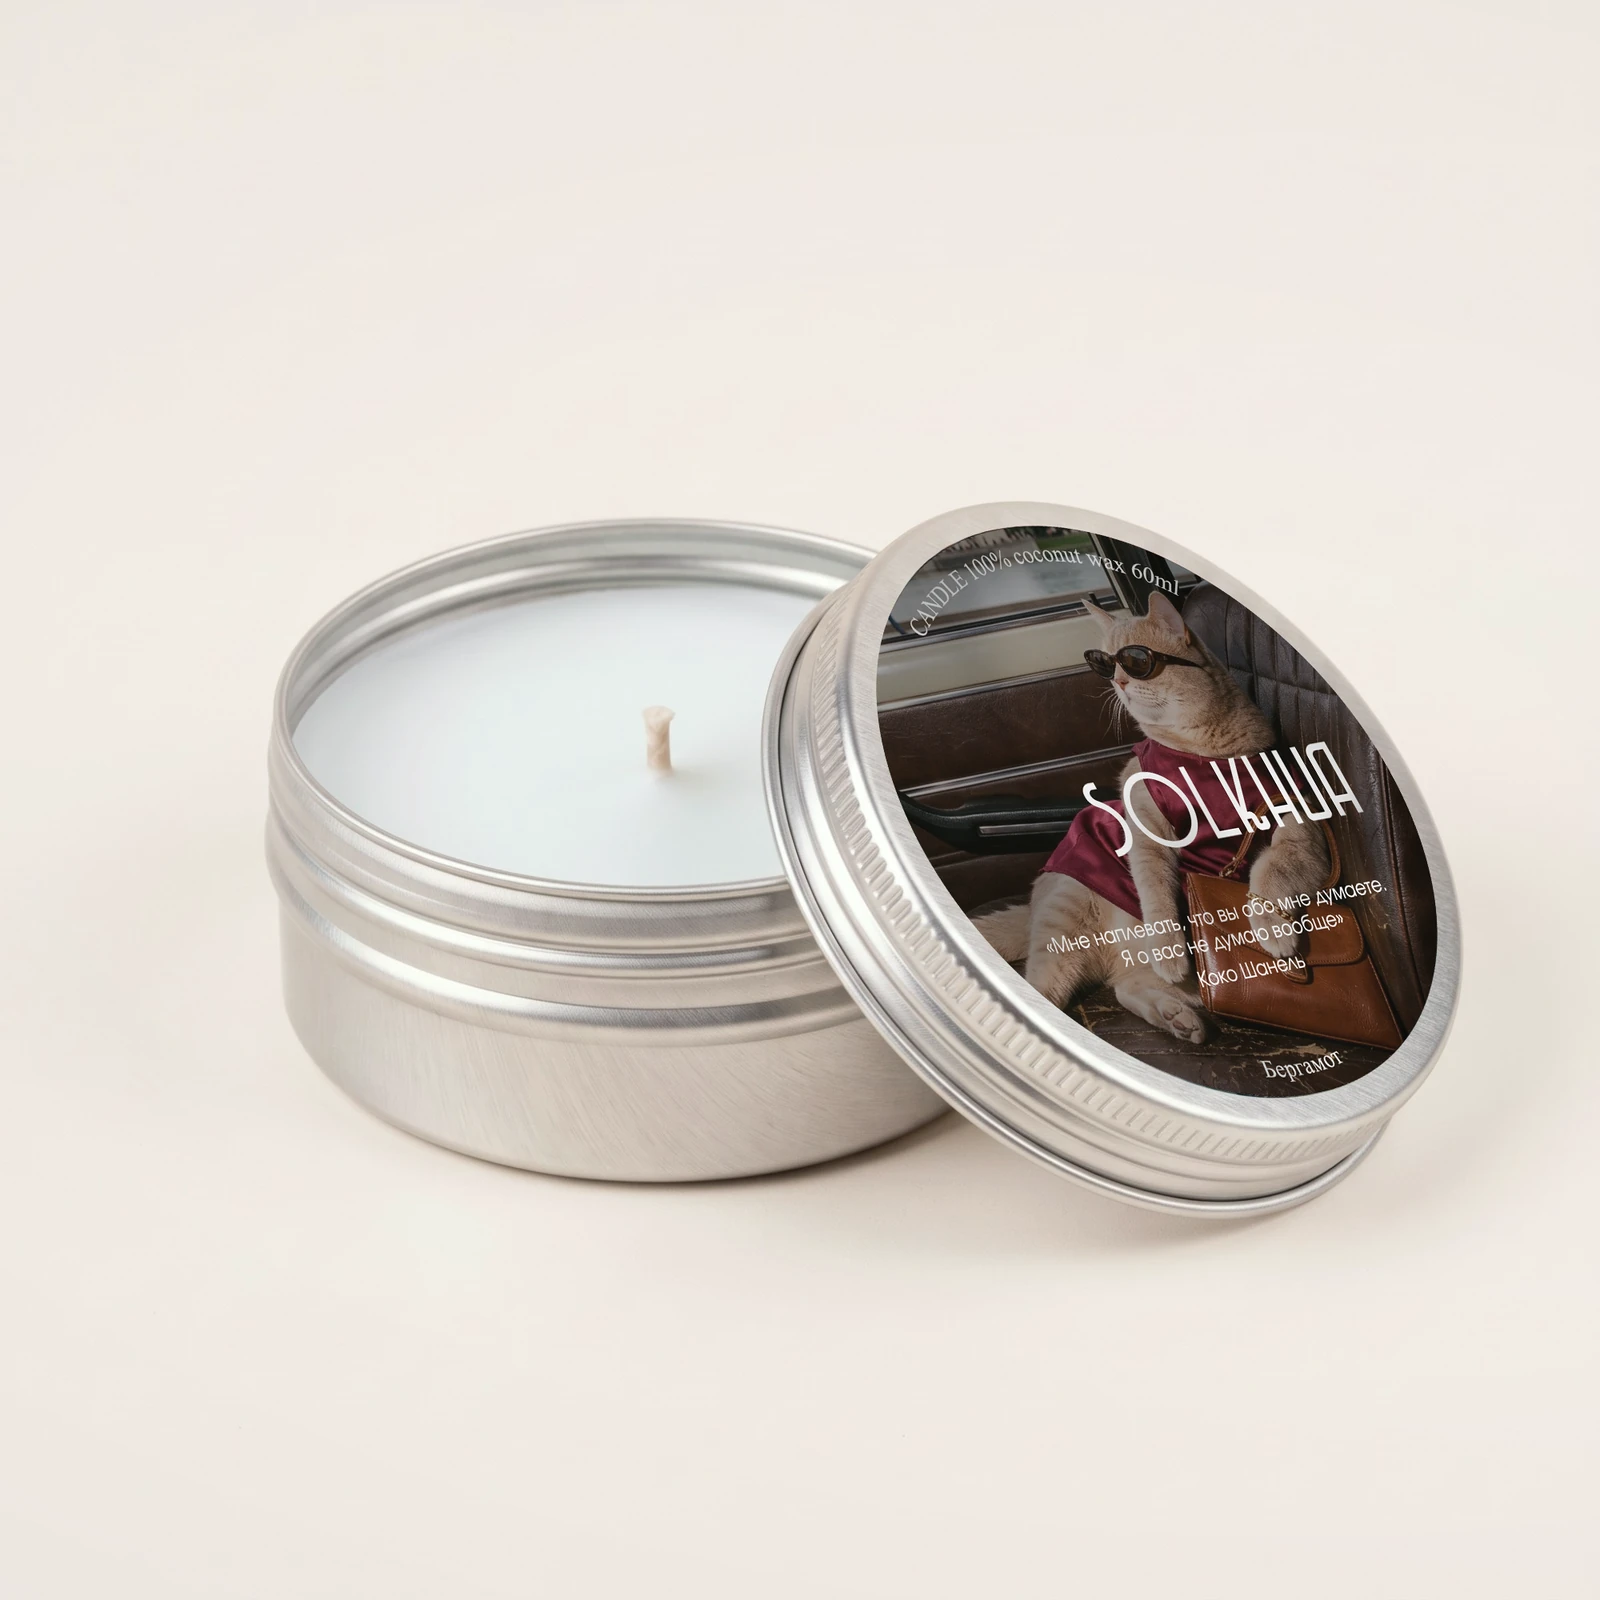
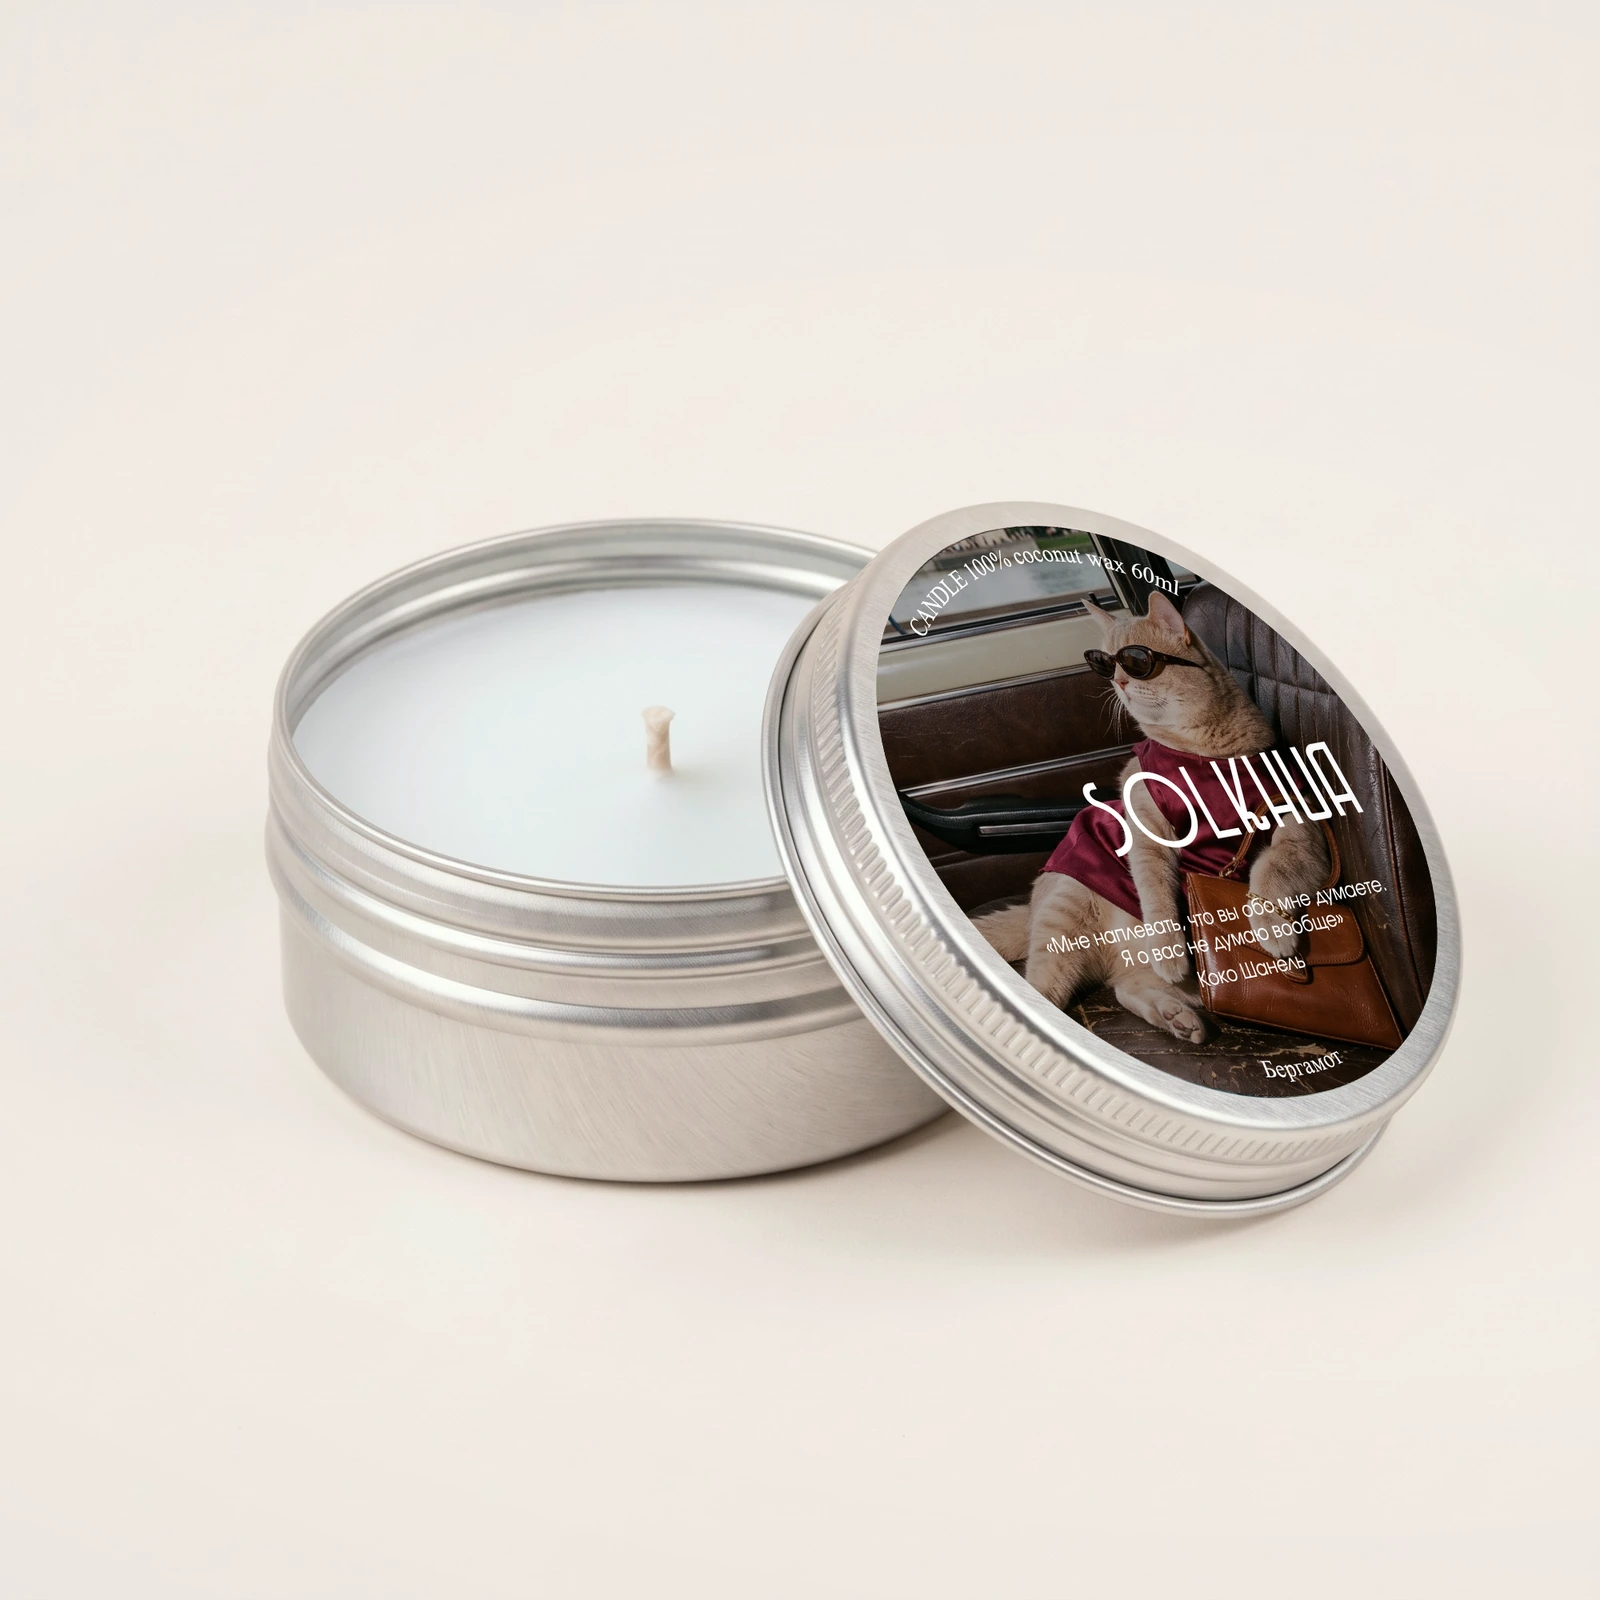
Use original label colours, smoother catalogue hover, drop photo credit line
- Relabel every product shot with the label PNG colours as supplied: no tone
  mapping or shading filter; only a gentle rim-derived light gradient and,
  under the vacuum film, broad specular highlights
- Catalogue hover now crossfades the unpacked tin over the packed one
- Remove the Unsplash credit line from the footer
- Version asset URLs so browsers fetch the replaced photos

Claude-Session: https://claude.ai/code/session_01UpckG1rPkLS9rV3dZvxG6U

diff --git a/index.html b/index.html
@@ -13,7 +13,7 @@
 <link rel="preconnect" href="https://fonts.googleapis.com">
 <link rel="preconnect" href="https://fonts.gstatic.com" crossorigin>
 <link rel="stylesheet" href="https://fonts.googleapis.com/css2?family=Poiret+One&family=Didact+Gothic&family=Tinos:ital@0;1&display=swap">
-<link rel="stylesheet" href="assets/css/style.css">
+<link rel="stylesheet" href="assets/css/style.css?v=20261004b">
 <script>document.documentElement.classList.add("js")</script>
 </head>
 <body data-page="home">
@@ -32,7 +32,7 @@
       </div>
       <div class="hero-stage">
         <div class="hero-float"><div class="hero-tilt" id="hero-tilt">
-          <img class="hero-candle" id="hero-candle" src="assets/img/product-palo-santo.webp" alt="Свеча SOLKHUA «Пало санто» в прозрачной вакуумной упаковке" width="1400" height="1400" fetchpriority="high">
+          <img class="hero-candle" id="hero-candle" src="assets/img/product-palo-santo.webp?v=20261004b" alt="Свеча SOLKHUA «Пало санто» в прозрачной вакуумной упаковке" width="1400" height="1400" fetchpriority="high">
         </div></div>
       </div>
       <div class="hero-panel hero-swap" id="hero-panel" aria-live="polite"></div>
@@ -59,9 +59,9 @@
     <div class="story-track" id="story-track">
       <div class="story-stick">
         <div class="stage" id="stage">
-          <div class="frame on"><img src="assets/img/product-palo-santo.webp" alt="Свеча в вакуумной упаковке" loading="lazy"></div>
-          <div class="frame"><img src="assets/img/open-palo-santo.webp" alt="Открытая свеча «Пало санто» и крышка с этикеткой" loading="lazy"></div>
-          <div class="frame frame-zoom"><img src="assets/img/lit.webp" alt="Горящая свеча из кокосового воска" loading="lazy"></div>
+          <div class="frame on"><img src="assets/img/product-palo-santo.webp?v=20261004b" alt="Свеча в вакуумной упаковке" loading="lazy"></div>
+          <div class="frame"><img src="assets/img/open-palo-santo.webp?v=20261004b" alt="Открытая свеча «Пало санто» и крышка с этикеткой" loading="lazy"></div>
+          <div class="frame frame-zoom"><img src="assets/img/lit.webp?v=20261004b" alt="Горящая свеча из кокосового воска" loading="lazy"></div>
           <div class="frame"><img src="assets/img/cats/care.webp" alt="Человек гладит уличного кота" loading="lazy"></div>
         </div>
         <div class="steps">
@@ -147,7 +147,7 @@
     <div class="q-dots" id="q-dots" role="group" aria-label="Выбор цитаты"></div>
   </section>
 </main>
-<script src="assets/js/data.js"></script>
-<script src="assets/js/app.js"></script>
+<script src="assets/js/data.js?v=20261004b"></script>
+<script src="assets/js/app.js?v=20261004b"></script>
 </body>
 </html>

diff --git a/about.html b/about.html
@@ -13,7 +13,7 @@
 <link rel="preconnect" href="https://fonts.googleapis.com">
 <link rel="preconnect" href="https://fonts.gstatic.com" crossorigin>
 <link rel="stylesheet" href="https://fonts.googleapis.com/css2?family=Poiret+One&family=Didact+Gothic&family=Tinos:ital@0;1&display=swap">
-<link rel="stylesheet" href="assets/css/style.css">
+<link rel="stylesheet" href="assets/css/style.css?v=20261004b">
 <script>document.documentElement.classList.add("js")</script>
 </head>
 <body data-page="about">
@@ -28,7 +28,7 @@
 
   <section class="wrap">
     <div class="split-block">
-      <div class="media-r reveal-img"><img src="assets/img/closed-apelsin-koritsa.webp" alt="Свеча «Апельсин и корица»" loading="lazy"></div>
+      <div class="media-r reveal-img"><img src="assets/img/closed-apelsin-koritsa.webp?v=20261004b" alt="Свеча «Апельсин и корица»" loading="lazy"></div>
       <div class="reveal d1">
         <span class="eyebrow">Идея</span>
         <h2 style="margin-top:12px">Город, где коты главные</h2>
@@ -40,7 +40,7 @@
 
   <section class="wrap">
     <div class="split-block rev">
-      <div class="media-r reveal-img"><img src="assets/img/lit.webp" alt="Горящая свеча из кокосового воска" loading="lazy"></div>
+      <div class="media-r reveal-img"><img src="assets/img/lit.webp?v=20261004b" alt="Горящая свеча из кокосового воска" loading="lazy"></div>
       <div class="reveal d1">
         <span class="eyebrow">Состав</span>
         <h2 style="margin-top:12px">Только кокосовый воск</h2>
@@ -72,7 +72,7 @@
     <cite class="reveal">Коко Шанель · на крышке «Бергамот»</cite>
   </section>
 </main>
-<script src="assets/js/data.js"></script>
-<script src="assets/js/app.js"></script>
+<script src="assets/js/data.js?v=20261004b"></script>
+<script src="assets/js/app.js?v=20261004b"></script>
 </body>
 </html>

diff --git a/assets/js/app.js b/assets/js/app.js
@@ -9,7 +9,8 @@
   const $ = (s, r = document) => r.querySelector(s);
   const $$ = (s, r = document) => [...r.querySelectorAll(s)];
   const money = n => n.toLocaleString("ru-RU") + " " + CFG.currency;
-  const img = (id, kind = "product") => `assets/img/${kind}-${id}.webp`;
+  const V = "20261004b"; // bump after replacing photos so browsers fetch the new files
+  const img = (id, kind = "product") => `assets/img/${kind}-${id}.webp?v=${V}`;
   const esc = s => String(s).replace(/[&<>"]/g, c => ({ "&": "&amp;", "<": "&lt;", ">": "&gt;", '"': "&quot;" }[c]));
 
   /* ---------- storage (safe) ---------- */
@@ -74,7 +75,7 @@
             </ul></div>
           </div>
           <div class="wordmark" aria-hidden="true">SOLKHUA</div>
-          <div class="legal"><span>© ${new Date().getFullYear()} SOLKHUA · ${CFG.city}</span><span class="credit">Фото города и котов: <a href="https://unsplash.com" target="_blank" rel="noopener">Unsplash</a></span><a href="info.html">Доставка и оплата</a></div>
+          <div class="legal"><span>© ${new Date().getFullYear()} SOLKHUA · ${CFG.city}</span><a href="info.html">Доставка и оплата</a></div>
         </div>
       </footer>
       <div class="overlay" id="overlay"></div>
@@ -283,7 +284,7 @@
       const id = new URLSearchParams(location.search).get("id");
       const p = byId[id] || PRODUCTS[0];
       document.title = `${p.name} — SOLKHUA`;
-      const shots = [img(p.id), img(p.id, "closed"), img(p.id, "open"), "assets/img/side.webp", "assets/img/lit.webp", img(p.id, "label")];
+      const shots = [img(p.id), img(p.id, "closed"), img(p.id, "open"), `assets/img/side.webp?v=${V}`, `assets/img/lit.webp?v=${V}`, img(p.id, "label")];
       let qty = 1;
       $("#pdp").innerHTML = `
         <div class="gallery">

diff --git a/assets/css/style.css b/assets/css/style.css
@@ -185,10 +185,11 @@ section{padding-block:clamp(64px,9vw,140px)}
 .card-visual{position:relative}
 .card-media{position:relative;display:block;aspect-ratio:1;border-radius:var(--r);overflow:hidden;background:var(--photo)}
 .card-media img{position:absolute;inset:0;width:100%;height:100%;object-fit:cover;transition:transform 1.2s var(--ease)}
-.card-media .alt{opacity:0;transform:scale(1.04)}
-.card:hover .card-media .main{opacity:0;transform:scale(1.04)}
-.card:hover .card-media .alt{opacity:1;transform:scale(1)}
-.card-media img{transition:transform 1.1s var(--ease),opacity .7s var(--ease)}
+/* hover: the unpacked tin fades in softly over the packed one (no flash through the background) */
+.card-media img{transition:opacity .65s cubic-bezier(.4,0,.2,1),transform 1.4s cubic-bezier(.22,.7,.18,1);will-change:opacity,transform;backface-visibility:hidden}
+.card-media .alt{opacity:0;transform:scale(1.015)}
+.card:hover .card-media .main{transform:scale(1.03)}
+.card:hover .card-media .alt{opacity:1;transform:scale(1.03)}
 .card-badge{position:absolute;z-index:2;top:14px;left:14px;padding:.45em .95em;border-radius:999px;background:rgba(255,255,255,.85);font-size:.7rem;letter-spacing:.12em;text-transform:uppercase}
 .card-quick{position:absolute;z-index:2;left:14px;right:14px;bottom:14px;display:flex;justify-content:center;padding:.95em;border:0;border-radius:999px;background:rgba(255,255,255,.9);backdrop-filter:blur(8px);-webkit-backdrop-filter:blur(8px);font-size:var(--s--1);letter-spacing:.14em;text-transform:uppercase;cursor:pointer;opacity:0;transform:translateY(12px);transition:transform .5s var(--ease),opacity .4s,background .3s}
 .card:hover .card-quick,.card-quick:focus-visible{opacity:1;transform:none}

diff --git a/404.html b/404.html
@@ -13,19 +13,19 @@
 <link rel="preconnect" href="https://fonts.googleapis.com">
 <link rel="preconnect" href="https://fonts.gstatic.com" crossorigin>
 <link rel="stylesheet" href="https://fonts.googleapis.com/css2?family=Poiret+One&family=Didact+Gothic&family=Tinos:ital@0;1&display=swap">
-<link rel="stylesheet" href="assets/css/style.css">
+<link rel="stylesheet" href="assets/css/style.css?v=20261004b">
 <script>document.documentElement.classList.add("js")</script>
 </head>
 <body data-page="notfound">
 <main id="main">
   <div class="done wrap">
-    <img src="assets/img/label-bergamot.webp" alt="" style="width:180px;border-radius:50%">
+    <img src="assets/img/label-bergamot.webp?v=20261004b" alt="" style="width:180px;border-radius:50%">
     <h1>Кот унёс эту страницу</h1>
     <p class="lead" style="margin-inline:auto">Такой страницы нет. Возможно, ссылка устарела.</p>
     <a class="btn" href="index.html">На главную</a>
   </div>
 </main>
-<script src="assets/js/data.js"></script>
-<script src="assets/js/app.js"></script>
+<script src="assets/js/data.js?v=20261004b"></script>
+<script src="assets/js/app.js?v=20261004b"></script>
 </body>
 </html>

diff --git a/charity.html b/charity.html
@@ -13,7 +13,7 @@
 <link rel="preconnect" href="https://fonts.googleapis.com">
 <link rel="preconnect" href="https://fonts.gstatic.com" crossorigin>
 <link rel="stylesheet" href="https://fonts.googleapis.com/css2?family=Poiret+One&family=Didact+Gothic&family=Tinos:ital@0;1&display=swap">
-<link rel="stylesheet" href="assets/css/style.css">
+<link rel="stylesheet" href="assets/css/style.css?v=20261004b">
 <script>document.documentElement.classList.add("js")</script>
 </head>
 <body data-page="charity">
@@ -63,7 +63,7 @@
     <p class="reveal" style="margin-top:40px"><a class="btn" href="catalog.html">Выбрать свечу и помочь</a></p>
   </section>
 </main>
-<script src="assets/js/data.js"></script>
-<script src="assets/js/app.js"></script>
+<script src="assets/js/data.js?v=20261004b"></script>
+<script src="assets/js/app.js?v=20261004b"></script>
 </body>
 </html>

diff --git a/checkout.html b/checkout.html
@@ -13,7 +13,7 @@
 <link rel="preconnect" href="https://fonts.googleapis.com">
 <link rel="preconnect" href="https://fonts.gstatic.com" crossorigin>
 <link rel="stylesheet" href="https://fonts.googleapis.com/css2?family=Poiret+One&family=Didact+Gothic&family=Tinos:ital@0;1&display=swap">
-<link rel="stylesheet" href="assets/css/style.css">
+<link rel="stylesheet" href="assets/css/style.css?v=20261004b">
 <script>document.documentElement.classList.add("js")</script>
 </head>
 <body data-page="checkout">
@@ -24,7 +24,7 @@
   </header>
   <div class="wrap checkout" id="checkout"></div>
 </main>
-<script src="assets/js/data.js"></script>
-<script src="assets/js/app.js"></script>
+<script src="assets/js/data.js?v=20261004b"></script>
+<script src="assets/js/app.js?v=20261004b"></script>
 </body>
 </html>

diff --git a/product.html b/product.html
@@ -13,7 +13,7 @@
 <link rel="preconnect" href="https://fonts.googleapis.com">
 <link rel="preconnect" href="https://fonts.gstatic.com" crossorigin>
 <link rel="stylesheet" href="https://fonts.googleapis.com/css2?family=Poiret+One&family=Didact+Gothic&family=Tinos:ital@0;1&display=swap">
-<link rel="stylesheet" href="assets/css/style.css">
+<link rel="stylesheet" href="assets/css/style.css?v=20261004b">
 <script>document.documentElement.classList.add("js")</script>
 </head>
 <body data-page="product">
@@ -24,7 +24,7 @@
     <div class="grid" id="related"></div>
   </section>
 </main>
-<script src="assets/js/data.js"></script>
-<script src="assets/js/app.js"></script>
+<script src="assets/js/data.js?v=20261004b"></script>
+<script src="assets/js/app.js?v=20261004b"></script>
 </body>
 </html>

diff --git a/catalog.html b/catalog.html
@@ -13,7 +13,7 @@
 <link rel="preconnect" href="https://fonts.googleapis.com">
 <link rel="preconnect" href="https://fonts.gstatic.com" crossorigin>
 <link rel="stylesheet" href="https://fonts.googleapis.com/css2?family=Poiret+One&family=Didact+Gothic&family=Tinos:ital@0;1&display=swap">
-<link rel="stylesheet" href="assets/css/style.css">
+<link rel="stylesheet" href="assets/css/style.css?v=20261004b">
 <script>document.documentElement.classList.add("js")</script>
 </head>
 <body data-page="catalog">
@@ -43,7 +43,7 @@
     <div class="grid" id="grid"></div>
   </section>
 </main>
-<script src="assets/js/data.js"></script>
-<script src="assets/js/app.js"></script>
+<script src="assets/js/data.js?v=20261004b"></script>
+<script src="assets/js/app.js?v=20261004b"></script>
 </body>
 </html>

diff --git a/info.html b/info.html
@@ -13,7 +13,7 @@
 <link rel="preconnect" href="https://fonts.googleapis.com">
 <link rel="preconnect" href="https://fonts.gstatic.com" crossorigin>
 <link rel="stylesheet" href="https://fonts.googleapis.com/css2?family=Poiret+One&family=Didact+Gothic&family=Tinos:ital@0;1&display=swap">
-<link rel="stylesheet" href="assets/css/style.css">
+<link rel="stylesheet" href="assets/css/style.css?v=20261004b">
 <script>document.documentElement.classList.add("js")</script>
 </head>
 <body data-page="info">
@@ -67,7 +67,7 @@
     </div>
   </section>
 </main>
-<script src="assets/js/data.js"></script>
-<script src="assets/js/app.js"></script>
+<script src="assets/js/data.js?v=20261004b"></script>
+<script src="assets/js/app.js?v=20261004b"></script>
 </body>
 </html>
